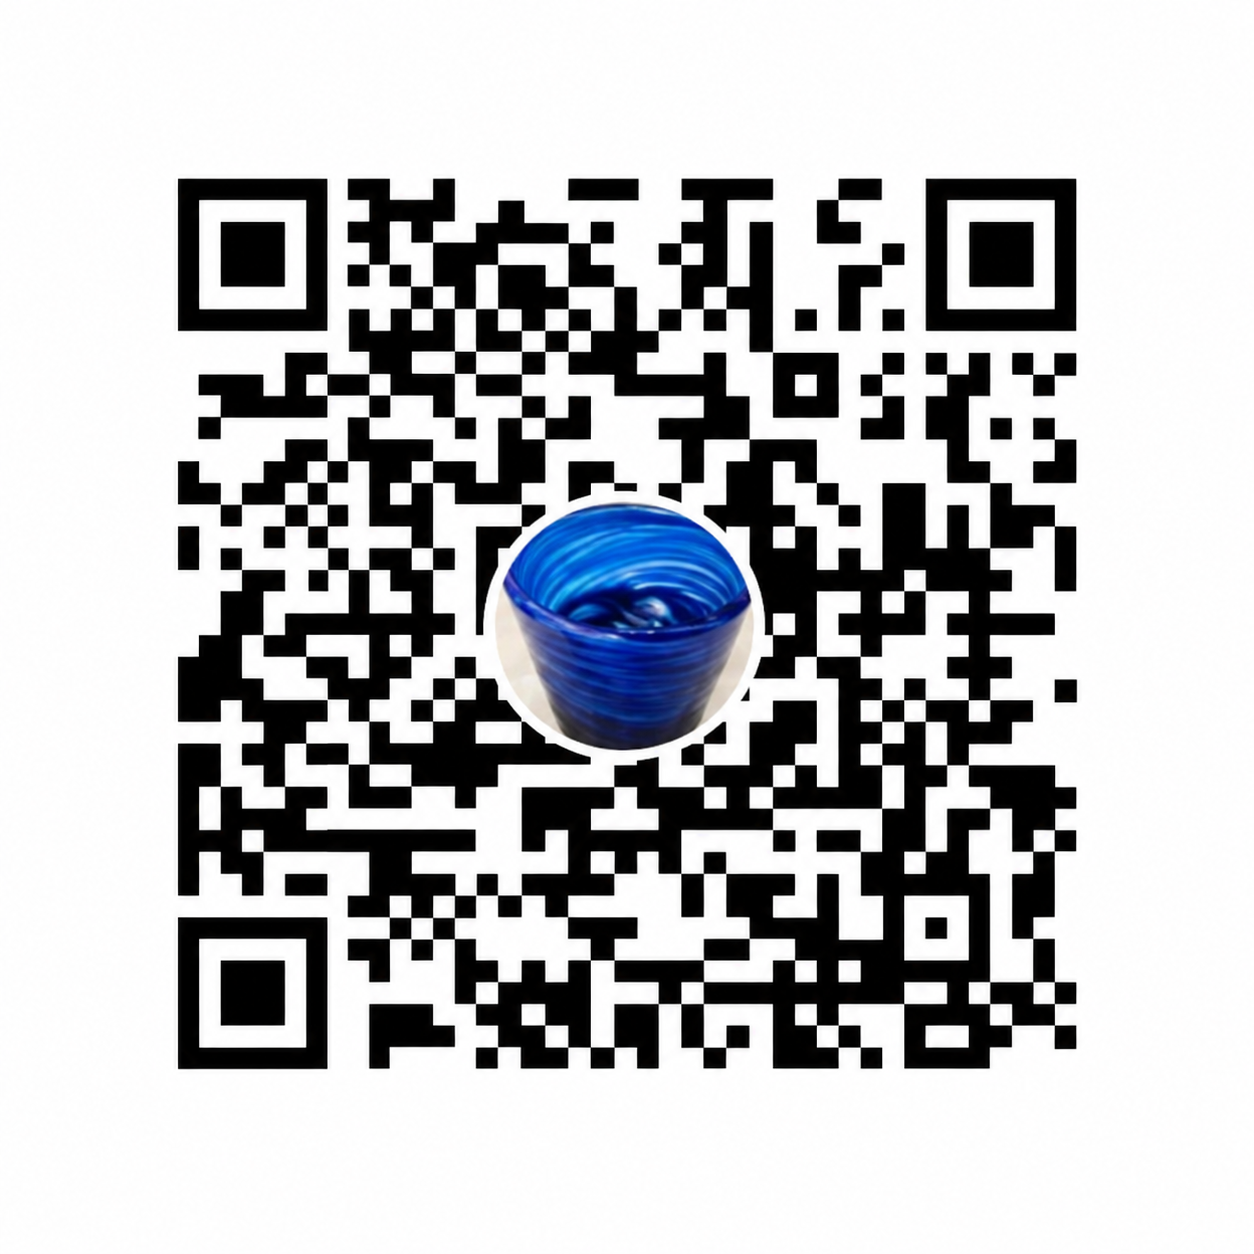
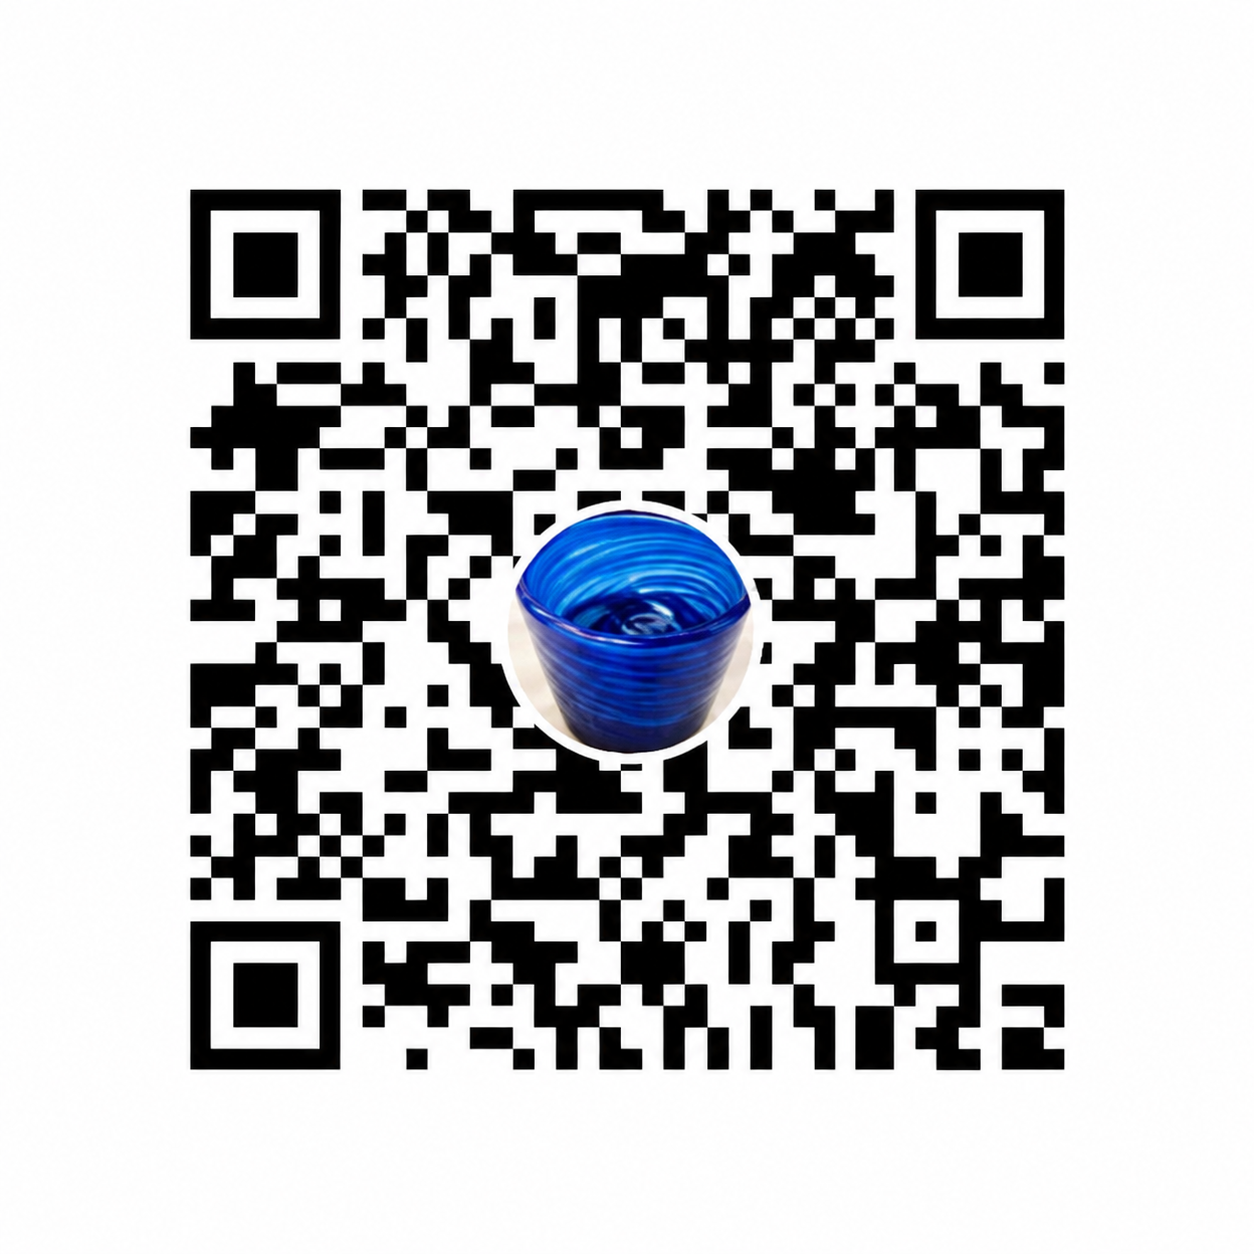
Replace bundled PayPay MyCode and refresh cached QR safely

Changed region(s): [[0.1244, 0.1244, 0.8708, 0.8708]]

diff --git a/index.html b/index.html
@@ -46,7 +46,7 @@
   <section id="login" class="hidden"></section>
   <section id="admin" class="hidden"></section>
 </main>
-<footer><span>操作に困ったときは、スタッフにお声がけください。<small class="app-version">受付アプリ v16</small></span><button id="admin-entry" class="secondary small" type="button">運営者用</button></footer>
+<footer><span>操作に困ったときは、スタッフにお声がけください。<small class="app-version">受付アプリ v17</small></span><button id="admin-entry" class="secondary small" type="button">運営者用</button></footer>
 <script>
 (() => {
   'use strict';
@@ -58,9 +58,10 @@
   const QR_STORE='images';
   const QR_ID='official-merchant-qr';
   const QR_MAX_BYTES=2*1024*1024;
-  const BUILTIN_QR='./payment-qr.png';
-  const BUILTIN_QR_EXPIRY='2026年10月17日 14:52';
[1 lines of base64/hex data omitted]
+  const BUILTIN_QR='./payment-qr.png?qr=eff521ed90ab';
+  const BUILTIN_QR_EXPIRY='2026年10月26日 10:08';
[2 lines of base64/hex data omitted]
   const PRACTICE_QR='./practice-qr.svg';
   const localDay=()=>{const d=new Date();return `${d.getFullYear()}-${String(d.getMonth()+1).padStart(2,'0')}-${String(d.getDate()).padStart(2,'0')}`};
   const exportName=ext=>`稲門祭iPad受付_${TEST_MODE?'練習_':''}${localDay()}.${ext}`;
@@ -116,7 +117,8 @@
   function paypayQrReady(row,d=data){
     if(!d.settings.paypayEnabled)return false;
     const type=paypayQrType(d),hash=row?.sha256||(!row?BUILTIN_QR_HASH:null);
-    if(d.settings.paypayQrHash&&d.settings.paypayQrHash!==hash)return false;
+    const retiredBuiltin=!row&&type==='personal'&&d.settings.paypayQrHash===RETIRED_BUILTIN_QR_HASH;
+    if(d.settings.paypayQrHash&&d.settings.paypayQrHash!==hash&&!retiredBuiltin)return false;
     return type==='merchant'?row?.kind==='merchant':!row||row.kind===undefined||['personal','reference'].includes(row.kind);
   }
   function paymentReady(){return TEST_MODE||paypayReady&&data.settings.paypayEnabled}
@@ -133,7 +135,7 @@
   function renderTicket(){
     if(!shownTicket)return;
     const t=shownTicket,slot=data.settings.slots.find(x=>x.id===t.slotId),left=Math.max(0,Math.ceil((ticketDeadline-Date.now())/1000)),paypay=t.paymentChoice==='paypay',personal=ticketQrType(t)==='personal',amount=yen(t.unitPrice*t.participants);
-    const payment=paypay?`<section class="ticket-payment"><h2>${personal?'PayPayで送金':'PayPayでお支払い'}</h2><p class="payment-total">${amount}</p>${TEST_MODE?'<p class="notice">練習用QRです。実際のお支払いは不要です。</p>':''}${ticketQrError?`<p class="notice error">${esc(ticketQrError)}</p>`:ticketQrSource?`<img id="ticket-qr-preview" class="payment-qr" src="${esc(ticketQrSource)}" alt="${TEST_MODE?'練習用QRコード':personal?'PayPayのMyコード':'PayPay支払い用QRコード'}">`:'<p id="ticket-qr-loading" class="muted">QRを読み込んでいます…</p>'}<p>ご自身のスマートフォンのPayPayでQRを読み取り、${personal?'送金先を確認して':''}<strong>合計 ${amount}</strong> を${personal?'送って':'お支払い'}ください。</p>${personal&&t.participants>1?`<p class="tiny muted">金額が1,000円から変更できない場合は、1,000円を${t.participants}回送ってください。</p>`:''}<p>${personal?'送金':'お支払い'}後、この予約番号をスタッフへ。受領の確認後にご案内します。</p><button type="button" id="ticket-cash-switch" class="secondary">PayPayが使えない方は現金へ</button></section>`:`<section class="ticket-payment"><h2>現金でお支払い</h2><p class="payment-total">${amount}</p><p>体験前に、予約番号を伝えてスタッフへお支払いください。</p><p class="tiny muted">PayPayで既に支払った方は、現金を重ねて支払わずスタッフに確認してください。</p>${paymentReady()?'<button type="button" id="ticket-paypay-switch" class="secondary">PayPayに戻す</button>':''}</section>`;
+    const payment=paypay?`<section class="ticket-payment"><h2>${personal?'PayPayで送金':'PayPayでお支払い'}</h2><p class="payment-total">${amount}</p>${TEST_MODE?'<p class="notice">練習用QRです。実際のお支払いは不要です。</p>':''}${ticketQrError?`<p class="notice error">${esc(ticketQrError)}</p>`:ticketQrSource?`<img id="ticket-qr-preview" class="payment-qr" src="${esc(ticketQrSource)}" alt="${TEST_MODE?'練習用QRコード':personal?'PayPayのMyコード':'PayPay支払い用QRコード'}">`:'<p id="ticket-qr-loading" class="muted">QRを読み込んでいます…</p>'}<p>ご自身のスマートフォンのPayPayでQRを読み取り、${personal?'送金先を確認し、金額に':''}<strong>合計 ${amount}</strong> を${personal?'入力して送って':'お支払い'}ください。</p>${personal&&t.participants>1&&ticketQrSource?.startsWith('blob:')?`<p class="tiny muted">金額が1,000円から変更できない場合は、1,000円を${t.participants}回送ってください。</p>`:''}<p>${personal?'送金':'お支払い'}後、この予約番号をスタッフへ。受領の確認後にご案内します。</p><button type="button" id="ticket-cash-switch" class="secondary">PayPayが使えない方は現金へ</button></section>`:`<section class="ticket-payment"><h2>現金でお支払い</h2><p class="payment-total">${amount}</p><p>体験前に、予約番号を伝えてスタッフへお支払いください。</p><p class="tiny muted">PayPayで既に支払った方は、現金を重ねて支払わずスタッフに確認してください。</p>${paymentReady()?'<button type="button" id="ticket-paypay-switch" class="secondary">PayPayに戻す</button>':''}</section>`;
     $('ticket').innerHTML=`<div class="ticket"><h1>予約を受け付けました</h1><p>この番号を控えてください。お支払いはまだ完了していません。</p><div class="code">${esc(t.code)}</div><div class="when">${esc(slot.time)} 開始 · 所要 ${DURATION} 分</div><p>参加 ${t.participants}名 ／ 参加料金 ${amount}</p>${payment}<p>画面は <strong id="countdown">${left}</strong> 秒後に戻ります。予約の記録は残ります。</p><div class="row" style="justify-content:center"><button type="button" id="extend" class="secondary">表示を30秒延長</button><button type="button" id="ticket-done">番号を控えました</button></div></div>`;
   }
   async function switchTicketPayment(choice){if(!shownTicket||screen!=='ticket')return;try{const row=choice==='paypay'&&!TEST_MODE?await readQr():null;update(d=>{const t=d.tickets.find(x=>x.code===shownTicket.code);if(!t||t.status!=='reserved'||t.payment||t.paymentIntent)throw Error('この予約のお支払い方法は変更できません');if(choice==='paypay'&&!TEST_MODE&&!paypayQrReady(row,d))throw Error('PayPayを利用できません。スタッフにお知らせください');t.paypayQrType=ticketQrType(t);t.paymentChoice=choice;if(choice==='paypay')t.paypayQrType=paypayQrType(d)});shownTicket=data.tickets.find(t=>t.code===shownTicket.code);clearTicketQr();renderTicket();if(choice==='paypay')refreshTicketQr()}catch(e){setAlert(e.message,'error')}}
@@ -316,10 +318,13 @@
       tx.onabort=()=>finish(Error('画像保存が中断されました'));
     });
   }
-  async function readQr(){
+  async function readQr(includeRetired=false){
     const row=await qrTransaction('readonly',store=>store.get(QR_ID));
     if(row===undefined)return null;
     if(!row||!(row.kind===undefined||['personal','merchant','reference'].includes(row.kind))||!(row.sha256===undefined||/^[0-9a-f]{64}$/.test(row.sha256))||row.version!==1||!['image/png','image/jpeg'].includes(row.mime)||!(row.blob instanceof Blob)||row.blob.type!==row.mime||row.blob.size<1||row.blob.size>QR_MAX_BYTES||!Number.isInteger(row.width)||!Number.isInteger(row.height)||row.width<120||row.height<120||row.width>2048||row.height>2048)throw Error('保存されたQR画像が不正です。削除して登録し直してください');
+    // Only the exact previous bundled personal QR follows the new bundled image.
+    // Keep the stored row untouched; registration still checks the physical image.
+    if(!includeRetired&&row.kind!=='merchant'&&await qrHash(row.blob)===RETIRED_BUILTIN_QR_HASH)return null;
     return row;
   }
   function clearQrPreview(){
@@ -392,7 +397,7 @@
         if(dimensions.width<120||dimensions.height<120||dimensions.width>2048||dimensions.height>2048)throw Error('画像の縦横は120～2048 pxにしてください');
         row={version:1,kind,mime:actual,blob:new Blob([file],{type:actual}),...dimensions,savedAt:stamp()};
       }else{
-        row=await readQr();
+        row=await readQr(true);
         if(kind==='merchant'&&row?.kind!=='merchant')throw Error('加盟店の決済QR画像を選んでください');
         if(kind==='personal'&&row?.kind==='merchant')throw Error('個人のMyコード画像を選んでください');
         if(row)row={...row,kind,savedAt:stamp()};
@@ -403,16 +408,16 @@
       if(data.settings.paypayEnabled){update(d=>{d.settings.paypayEnabled=false});operation.revision=data.revision}
       if(row){
         await qrTransaction('readwrite',store=>store.put(row,QR_ID));
-        const saved=await readQr();
+        const saved=await readQr(true);
         if(saved?.kind!==kind||saved.sha256!==hash||await qrHash(saved.blob)!==hash)throw Error('QR画像の保存確認に失敗しました。再登録してください');
         imageSaved=true;
       }
-      const current=await readQr();
+      const current=await readQr(true);
       if(row?current?.sha256!==hash||await qrHash(current.blob)!==hash:current!==null)throw Error('別画面でQRが変わりました。確認してやり直してください');
       assertRegistrationCurrent(operation);
       update(d=>{if(d.revision!==operation.revision||JSON.stringify(d.pin)!==operation.pin)throw Error('登録中に記録が変わりました。確認してやり直してください');d.settings.paypayQrType=kind;d.settings.paypayQrHash=hash;d.settings.paypayEnabled=true});
       operation.revision=data.revision;
-      const finalQr=await readQr();assertRegistrationCurrent(operation);
+      const finalQr=await readQr(true);assertRegistrationCurrent(operation);
       if(!paypayQrReady(finalQr,read()))throw Error('PayPayの有効化を確認できません。登録をやり直してください');
       pendingPaypayFile=null;pendingPaypayKind=null;if(screen==='admin'&&adminActive)renderAdmin();
       setAlert('登録しました。基本はPayPay、使えない方は現金で受け付けます');

diff --git a/sw.js b/sw.js
@@ -1,5 +1,5 @@
-const CACHE='tomonsai-kiosk-prototype-v16';
-const FILES=['./','./index.html','./manifest.webmanifest','./icon-192.png','./icon-512.png','./payment-qr.png','./practice-qr.svg','./tomonsai-logo-2026.jpg'];
+const CACHE='tomonsai-kiosk-prototype-v17';
+const FILES=['./','./index.html','./manifest.webmanifest','./icon-192.png','./icon-512.png','./payment-qr.png','./payment-qr.png?qr=eff521ed90ab','./practice-qr.svg','./tomonsai-logo-2026.jpg'];
 
 self.addEventListener('install',event=>{
   event.waitUntil((async()=>{

diff --git a/README.md b/README.md
@@ -1,8 +1,8 @@
 # 稲門祭2026 iPadセルフ受付
 
-2026年10月4日更新・受付アプリv16。
+2026年10月12日更新・受付アプリv17。
 
-会場のiPadで使う予約・支払案内用Webアプリです。画面タイトルは2026年最終企画書の「学生注目！透明標本の封入体験するよ！」に合わせ、タイトル周りのサブタイトルは表示しません。左上には[校友会の2026年公式ロゴ](https://www.wasedaalumni.jp/alumni/wp-content/uploads/2026/03/side_logo_2026.jpg)を、元のJPEGを加工せず同梱して表示します。オフラインでも表示します。v16は付属のMyコードを表示し、PayPayを初期選択にします。PayPayを利用できない来場者は、同じ予約番号で現金へ切り替えられます。「PayPay登録」で個人Myコード（送金）または加盟店の決済QRを選び、手元の画像へ差し替えられます。参加費は1人1,000円、体験は20分、各回の参加上限は20名で、5回分の合計は100名です。日付と現在時刻による受付制限はなく、運営者が受付を開き、定員に空きがあればいつでも操作できます。枠時刻は体験予定の表示として残ります。来場者画面のイラストはありません。記録はこの端末のブラウザ内に保存され、他端末とは同期しません。
+会場のiPadで使う予約・支払案内用Webアプリです。画面タイトルは2026年最終企画書の「学生注目！透明標本の封入体験するよ！」に合わせ、タイトル周りのサブタイトルは表示しません。左上には[校友会の2026年公式ロゴ](https://www.wasedaalumni.jp/alumni/wp-content/uploads/2026/03/side_logo_2026.jpg)を、元のJPEGを加工せず同梱して表示します。オフラインでも表示します。v17は付属のMyコードを表示し、PayPayを初期選択にします。PayPayを利用できない来場者は、同じ予約番号で現金へ切り替えられます。「PayPay登録」で個人Myコード（送金）または加盟店の決済QRを選び、手元の画像へ差し替えられます。参加費は1人1,000円、体験は20分、各回の参加上限は20名で、5回分の合計は100名です。日付と現在時刻による受付制限はなく、運営者が受付を開き、定員に空きがあればいつでも操作できます。枠時刻は体験予定の表示として残ります。来場者画面のイラストはありません。記録はこの端末のブラウザ内に保存され、他端末とは同期しません。
 
 - 公開URL: https://nabe0930.github.io/tomonsai-2026-ipad-kiosk/
 - 来場者: 空き枠の「予約する」から体験する人数と支払方法を選び、注意事項を確認して「予約番号を発行」で未払いの予約番号を作成します。PayPayが初期選択で、番号発行後にQRと人数分の合計額を表示します。PayPayを使えない場合は現金を選びます。運営者がPayPayを停止した場合も現金を案内します。番号発行と同時に残席が減ります。予約やQR表示では入金済みになりません。
@@ -16,7 +16,7 @@
 - 未払いの予約も席を占有します。不要な予約は運営者が手動で取り消します。日付が変わっても自動取消や台帳の初期化は行いません。
 - 新しい端末での本番初期状態は受付停止中です。運営者PINを設定してから受付を開始します。参加費は1人1,000円・体験20分で固定、5枠は各20名で固定です。既存の予約・入金記録・番号を保持したまま、旧版の枠定員も各20名へ更新します。在室上限の設定は不要です。別端末で同じ公開URLを開いて作った予約は、会場iPadに同期されません。公開URLを遠隔予約の入口として案内しないでください。
 - CSV控えは付き添い人数・小学生以下の列を出しません。JSONバックアップは旧版の記録にあるそれらの項目を履歴として保持します。
-- この更新はアプリに対するものです。公開版の更新とiPad実機での更新確認は別です。iPadのv16表示・実機動作・ホーム画面への追加完了・実機のQR登録状態は未確認です。実機の確認ではアプリの削除やサイトデータの消去を行わず、既存の予約を保持します。
+- この更新はアプリに対するものです。公開版の更新とiPad実機での更新確認は別です。iPadのv17表示・実機動作・ホーム画面への追加完了・実機のQR登録状態は未確認です。実機の確認ではアプリの削除やサイトデータの消去を行わず、既存の予約を保持します。
 
 ## 運営者画面
 
@@ -35,7 +35,7 @@
 
 ## いつでも練習する
 
-- 練習URL: https://nabe0930.github.io/tomonsai-2026-ipad-kiosk/?mode=test&v=16
+- 練習URL: https://nabe0930.github.io/tomonsai-2026-ipad-kiosk/?mode=test&v=17
 - 本番の運営者画面からも練習モードを開けます。画面上部の「練習」の表示を確認してください。実際のお金を受け取る必要はありません。
 - 来場者画面で「予約する」→ 人数などを選ぶ → 注意事項を確認 →「予約番号を発行」と操作します。運営者画面に入らず予約を作れます。この時点では未払いで、受領確認は不要です。
 - 支払いの記録も試す場合は「運営者用」を開き、練習専用PIN **000000** で入ります。予約番号のPayPay・現金の入金確認を練習として操作します。練習の予約後には専用QRを表示します。このQRは練習ページを開くためのもので、実際のPayPay決済にはつながりません。実際の金銭の受け渡しは不要です。
@@ -46,7 +46,7 @@
 
 ## QR画像の保存とPayPayの確認
 
-付属画像 `payment-qr.png` は提供された個人のMyコードをQR部分だけ切り取ったものです。本番の予約後に表示します。リクエスト金額は1,000円、有効期限は**2026年10月17日14:52**で、開催予定の10月18日には失効するため、運営者が新しいQRへ差し替えます。
+付属画像 `payment-qr.png` は2026年10月12日に提供された個人のMyコードをQR部分だけ切り取ったものです。本番の予約後に表示します。有効期限は**2026年10月26日10:08**です。請求金額は設定されていないため、来場者のスマホで人数×1,000円の合計額を入力します。v17では旧付属QRだけを新しい付属QRへ更新し、独自に登録したQR・PIN・予約・入金記録・受付開始／停止の状態は保持します。
 
 1. 会場iPadのホーム画面アプリを開き、「運営者用」でPINを入力して「設定」→「PayPay登録」を開きます。
 2. 「QRの種類」で「個人のMyコード（送金）」または「加盟店の決済QR」を選びます。
@@ -61,4 +61,4 @@
 
 個人Myコードは加盟店決済ではなく送金です。PayPay公式は個人送金での商品代金受領を禁止しています。QRを表示できることは、この利用が公式に認められたことを意味しません。加盟店の店頭QRは公開配信に追加せず、会場端末内に登録します。[個人送金での商品代金受領](https://paypay.ne.jp/help-merchant/b0861/)・[店頭QRのオンライン掲載](https://paypay.ne.jp/help-merchant/b0518/)
 
-人数が複数の場合は、表示する人数×1,000円の合計額に合わせます。QRの1,000円を合計額へ変更できない場合は、個人送金では1,000円を人数回送り、スタッフが全件を照合するか、同じ予約番号で現金へ切り替えます。金額や結果が分からないまま現金も受け取らず、先に受取履歴を確認します。API秘密情報は公開配信ファイルに含めません。
+付属Myコードを読み取ったら、スマホで表示する人数×1,000円の合計額を入力します。送金できない場合は、同じ予約番号で現金へ切り替えます。金額や結果が分からないまま現金も受け取らず、先に受取履歴を確認します。API秘密情報は公開配信ファイルに含めません。
